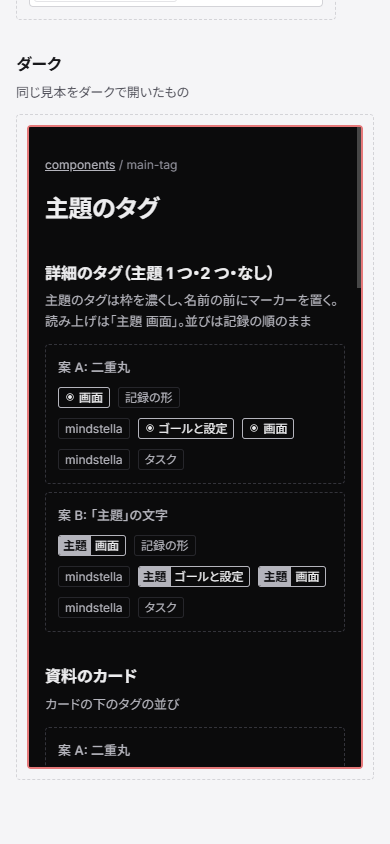
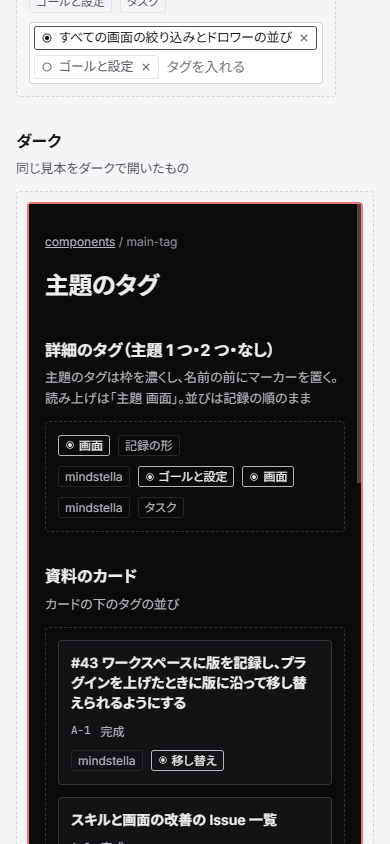
docs: 主題のマーカーの採用案を a-ring にし、主題のタグの部品のモックを案 A だけにする

diff --git a/dev/mock/components/main-tag/index.html b/dev/mock/components/main-tag/index.html
@@ -35,9 +35,6 @@
     /* タグを並べる見本（プレビューではタグの並びを置く先が持つ） */
     .tags { display: flex; flex-wrap: wrap; gap: 4px; }
     .card .tags { margin-top: 8px; }
-    /* 案ごとの見本の見出し */
-    .stage > h3 { margin: 0 0 8px; font-size: var(--fs-small); color: var(--text-2); font-weight: 500; }
-    .stage + .stage { margin-top: 8px; }
     /* 状態を見せるための見本のクラス（トグル） */
     .pe-chip-main.is-hover { background: var(--hover); color: var(--text); }
     .pe-chip-main.is-focus { outline: 2px solid var(--accent); outline-offset: -2px; }
@@ -63,27 +60,27 @@
     <section class="cat-sec">
       <h2>詳細のタグ（主題 1 つ・2 つ・なし）</h2>
       <p>主題のタグは枠を濃くし、名前の前にマーカーを置く。読み上げは「主題 画面」。並びは記録の順のまま</p>
-      <div class="stage" data-main-mark="a"><h3>案 A: 二重丸</h3><div class="row"><span class="tags"><span class="tag is-main" title="主題"><span class="tag-main"><svg class="icon" width="16" height="16" viewBox="0 0 24 24" aria-hidden="true"><circle cx="12" cy="12" r="8"/><circle cx="12" cy="12" r="3.5" fill="currentColor"/></svg><span class="tag-main-text">主題</span></span>画面</span><span class="tag">記録の形</span></span></div><div class="row" style="margin-top:8px"><span class="tags"><span class="tag">mindstella</span><span class="tag is-main" title="主題"><span class="tag-main"><svg class="icon" width="16" height="16" viewBox="0 0 24 24" aria-hidden="true"><circle cx="12" cy="12" r="8"/><circle cx="12" cy="12" r="3.5" fill="currentColor"/></svg><span class="tag-main-text">主題</span></span>ゴールと設定</span><span class="tag is-main" title="主題"><span class="tag-main"><svg class="icon" width="16" height="16" viewBox="0 0 24 24" aria-hidden="true"><circle cx="12" cy="12" r="8"/><circle cx="12" cy="12" r="3.5" fill="currentColor"/></svg><span class="tag-main-text">主題</span></span>画面</span></span></div><div class="row" style="margin-top:8px"><span class="tags"><span class="tag">mindstella</span><span class="tag">タスク</span></span></div></div><div class="stage" data-main-mark="b"><h3>案 B: 「主題」の文字</h3><div class="row"><span class="tags"><span class="tag is-main" title="主題"><span class="tag-main"><svg class="icon" width="16" height="16" viewBox="0 0 24 24" aria-hidden="true"><circle cx="12" cy="12" r="8"/><circle cx="12" cy="12" r="3.5" fill="currentColor"/></svg><span class="tag-main-text">主題</span></span>画面</span><span class="tag">記録の形</span></span></div><div class="row" style="margin-top:8px"><span class="tags"><span class="tag">mindstella</span><span class="tag is-main" title="主題"><span class="tag-main"><svg class="icon" width="16" height="16" viewBox="0 0 24 24" aria-hidden="true"><circle cx="12" cy="12" r="8"/><circle cx="12" cy="12" r="3.5" fill="currentColor"/></svg><span class="tag-main-text">主題</span></span>ゴールと設定</span><span class="tag is-main" title="主題"><span class="tag-main"><svg class="icon" width="16" height="16" viewBox="0 0 24 24" aria-hidden="true"><circle cx="12" cy="12" r="8"/><circle cx="12" cy="12" r="3.5" fill="currentColor"/></svg><span class="tag-main-text">主題</span></span>画面</span></span></div><div class="row" style="margin-top:8px"><span class="tags"><span class="tag">mindstella</span><span class="tag">タスク</span></span></div></div>
+      <div class="stage" data-main-mark="a"><div class="row"><span class="tags"><span class="tag is-main" title="主題"><span class="tag-main"><svg class="icon" width="16" height="16" viewBox="0 0 24 24" aria-hidden="true"><circle cx="12" cy="12" r="8"/><circle cx="12" cy="12" r="3.5" fill="currentColor"/></svg><span class="tag-main-text">主題</span></span>画面</span><span class="tag">記録の形</span></span></div><div class="row" style="margin-top:8px"><span class="tags"><span class="tag">mindstella</span><span class="tag is-main" title="主題"><span class="tag-main"><svg class="icon" width="16" height="16" viewBox="0 0 24 24" aria-hidden="true"><circle cx="12" cy="12" r="8"/><circle cx="12" cy="12" r="3.5" fill="currentColor"/></svg><span class="tag-main-text">主題</span></span>ゴールと設定</span><span class="tag is-main" title="主題"><span class="tag-main"><svg class="icon" width="16" height="16" viewBox="0 0 24 24" aria-hidden="true"><circle cx="12" cy="12" r="8"/><circle cx="12" cy="12" r="3.5" fill="currentColor"/></svg><span class="tag-main-text">主題</span></span>画面</span></span></div><div class="row" style="margin-top:8px"><span class="tags"><span class="tag">mindstella</span><span class="tag">タスク</span></span></div></div>
     </section>
     <section class="cat-sec">
       <h2>資料のカード</h2>
       <p>カードの下のタグの並び</p>
-      <div class="stage" data-main-mark="a"><h3>案 A: 二重丸</h3><div class="cards"><div class="card"><div class="c-ttl">#43 ワークスペースに版を記録し、プラグインを上げたときに版に沿って移し替えられるようにする</div><div class="c-meta"><span class="mono">A-1</span><span>完成</span></div><span class="tags"><span class="tag">mindstella</span><span class="tag is-main" title="主題"><span class="tag-main"><svg class="icon" width="16" height="16" viewBox="0 0 24 24" aria-hidden="true"><circle cx="12" cy="12" r="8"/><circle cx="12" cy="12" r="3.5" fill="currentColor"/></svg><span class="tag-main-text">主題</span></span>移し替え</span></span></div><div class="card"><div class="c-ttl">スキルと画面の改善の Issue 一覧</div><div class="c-meta"><span class="mono">A-2</span><span>完成</span></div><span class="tags"><span class="tag">mindstella</span><span class="tag is-main" title="主題"><span class="tag-main"><svg class="icon" width="16" height="16" viewBox="0 0 24 24" aria-hidden="true"><circle cx="12" cy="12" r="8"/><circle cx="12" cy="12" r="3.5" fill="currentColor"/></svg><span class="tag-main-text">主題</span></span>画面</span><span class="tag is-main" title="主題"><span class="tag-main"><svg class="icon" width="16" height="16" viewBox="0 0 24 24" aria-hidden="true"><circle cx="12" cy="12" r="8"/><circle cx="12" cy="12" r="3.5" fill="currentColor"/></svg><span class="tag-main-text">主題</span></span>記録の形</span><span class="tag">タスク</span></span></div></div></div><div class="stage" data-main-mark="b"><h3>案 B: 「主題」の文字</h3><div class="cards"><div class="card"><div class="c-ttl">#43 ワークスペースに版を記録し、プラグインを上げたときに版に沿って移し替えられるようにする</div><div class="c-meta"><span class="mono">A-1</span><span>完成</span></div><span class="tags"><span class="tag">mindstella</span><span class="tag is-main" title="主題"><span class="tag-main"><svg class="icon" width="16" height="16" viewBox="0 0 24 24" aria-hidden="true"><circle cx="12" cy="12" r="8"/><circle cx="12" cy="12" r="3.5" fill="currentColor"/></svg><span class="tag-main-text">主題</span></span>移し替え</span></span></div><div class="card"><div class="c-ttl">スキルと画面の改善の Issue 一覧</div><div class="c-meta"><span class="mono">A-2</span><span>完成</span></div><span class="tags"><span class="tag">mindstella</span><span class="tag is-main" title="主題"><span class="tag-main"><svg class="icon" width="16" height="16" viewBox="0 0 24 24" aria-hidden="true"><circle cx="12" cy="12" r="8"/><circle cx="12" cy="12" r="3.5" fill="currentColor"/></svg><span class="tag-main-text">主題</span></span>画面</span><span class="tag is-main" title="主題"><span class="tag-main"><svg class="icon" width="16" height="16" viewBox="0 0 24 24" aria-hidden="true"><circle cx="12" cy="12" r="8"/><circle cx="12" cy="12" r="3.5" fill="currentColor"/></svg><span class="tag-main-text">主題</span></span>記録の形</span><span class="tag">タスク</span></span></div></div></div>
+      <div class="stage" data-main-mark="a"><div class="cards"><div class="card"><div class="c-ttl">#43 ワークスペースに版を記録し、プラグインを上げたときに版に沿って移し替えられるようにする</div><div class="c-meta"><span class="mono">A-1</span><span>完成</span></div><span class="tags"><span class="tag">mindstella</span><span class="tag is-main" title="主題"><span class="tag-main"><svg class="icon" width="16" height="16" viewBox="0 0 24 24" aria-hidden="true"><circle cx="12" cy="12" r="8"/><circle cx="12" cy="12" r="3.5" fill="currentColor"/></svg><span class="tag-main-text">主題</span></span>移し替え</span></span></div><div class="card"><div class="c-ttl">スキルと画面の改善の Issue 一覧</div><div class="c-meta"><span class="mono">A-2</span><span>完成</span></div><span class="tags"><span class="tag">mindstella</span><span class="tag is-main" title="主題"><span class="tag-main"><svg class="icon" width="16" height="16" viewBox="0 0 24 24" aria-hidden="true"><circle cx="12" cy="12" r="8"/><circle cx="12" cy="12" r="3.5" fill="currentColor"/></svg><span class="tag-main-text">主題</span></span>画面</span><span class="tag is-main" title="主題"><span class="tag-main"><svg class="icon" width="16" height="16" viewBox="0 0 24 24" aria-hidden="true"><circle cx="12" cy="12" r="8"/><circle cx="12" cy="12" r="3.5" fill="currentColor"/></svg><span class="tag-main-text">主題</span></span>記録の形</span><span class="tag">タスク</span></span></div></div></div>
     </section>
     <section class="cat-sec">
       <h2>編集のタグの入力（主題でない・主題）</h2>
       <p>チップの左端のトグルで主題を付け外しする。トグルの名前は「{タグ} を主題」で、押した状態（aria-pressed）を読み上げる。主題は複数にできる</p>
-      <div class="stage" data-main-mark="a"><h3>案 A: 二重丸</h3><div class="pe-chips"><span class="tag pe-chip has-main is-main"><button class="pe-chip-main" type="button" aria-label="画面 を主題" aria-pressed="true" title="主題を外す"><svg class="icon" width="16" height="16" viewBox="0 0 24 24" aria-hidden="true"><circle cx="12" cy="12" r="8"/><circle cx="12" cy="12" r="3.5" fill="currentColor"/></svg><span class="tag-main-text">主題</span></button>画面<button class="pe-chip-x" type="button" aria-label="画面 を外す"><svg class="icon" width="16" height="16" viewBox="0 0 24 24" aria-hidden="true"><path d="M6 6l12 12M18 6 6 18"/></svg></button></span><span class="tag pe-chip has-main"><button class="pe-chip-main" type="button" aria-label="記録の形 を主題" aria-pressed="false" title="主題にする"><svg class="icon" width="16" height="16" viewBox="0 0 24 24" aria-hidden="true"><circle cx="12" cy="12" r="8"/></svg><span class="tag-main-text">主題</span></button>記録の形<button class="pe-chip-x" type="button" aria-label="記録の形 を外す"><svg class="icon" width="16" height="16" viewBox="0 0 24 24" aria-hidden="true"><path d="M6 6l12 12M18 6 6 18"/></svg></button></span><span class="tag pe-chip has-main"><button class="pe-chip-main" type="button" aria-label="通知 を主題" aria-pressed="false" title="主題にする"><svg class="icon" width="16" height="16" viewBox="0 0 24 24" aria-hidden="true"><circle cx="12" cy="12" r="8"/></svg><span class="tag-main-text">主題</span></button>通知<button class="pe-chip-x" type="button" aria-label="通知 を外す"><svg class="icon" width="16" height="16" viewBox="0 0 24 24" aria-hidden="true"><path d="M6 6l12 12M18 6 6 18"/></svg></button></span><input class="pe-chip-input" type="text" placeholder="タグを入れる" aria-label="タグを足す"></div></div><div class="stage" data-main-mark="b"><h3>案 B: 「主題」の文字</h3><div class="pe-chips"><span class="tag pe-chip has-main is-main"><button class="pe-chip-main" type="button" aria-label="画面 を主題" aria-pressed="true" title="主題を外す"><svg class="icon" width="16" height="16" viewBox="0 0 24 24" aria-hidden="true"><circle cx="12" cy="12" r="8"/><circle cx="12" cy="12" r="3.5" fill="currentColor"/></svg><span class="tag-main-text">主題</span></button>画面<button class="pe-chip-x" type="button" aria-label="画面 を外す"><svg class="icon" width="16" height="16" viewBox="0 0 24 24" aria-hidden="true"><path d="M6 6l12 12M18 6 6 18"/></svg></button></span><span class="tag pe-chip has-main"><button class="pe-chip-main" type="button" aria-label="記録の形 を主題" aria-pressed="false" title="主題にする"><svg class="icon" width="16" height="16" viewBox="0 0 24 24" aria-hidden="true"><circle cx="12" cy="12" r="8"/></svg><span class="tag-main-text">主題</span></button>記録の形<button class="pe-chip-x" type="button" aria-label="記録の形 を外す"><svg class="icon" width="16" height="16" viewBox="0 0 24 24" aria-hidden="true"><path d="M6 6l12 12M18 6 6 18"/></svg></button></span><span class="tag pe-chip has-main"><button class="pe-chip-main" type="button" aria-label="通知 を主題" aria-pressed="false" title="主題にする"><svg class="icon" width="16" height="16" viewBox="0 0 24 24" aria-hidden="true"><circle cx="12" cy="12" r="8"/></svg><span class="tag-main-text">主題</span></button>通知<button class="pe-chip-x" type="button" aria-label="通知 を外す"><svg class="icon" width="16" height="16" viewBox="0 0 24 24" aria-hidden="true"><path d="M6 6l12 12M18 6 6 18"/></svg></button></span><input class="pe-chip-input" type="text" placeholder="タグを入れる" aria-label="タグを足す"></div></div>
+      <div class="stage" data-main-mark="a"><div class="pe-chips"><span class="tag pe-chip has-main is-main"><button class="pe-chip-main" type="button" aria-label="画面 を主題" aria-pressed="true" title="主題を外す"><svg class="icon" width="16" height="16" viewBox="0 0 24 24" aria-hidden="true"><circle cx="12" cy="12" r="8"/><circle cx="12" cy="12" r="3.5" fill="currentColor"/></svg><span class="tag-main-text">主題</span></button>画面<button class="pe-chip-x" type="button" aria-label="画面 を外す"><svg class="icon" width="16" height="16" viewBox="0 0 24 24" aria-hidden="true"><path d="M6 6l12 12M18 6 6 18"/></svg></button></span><span class="tag pe-chip has-main"><button class="pe-chip-main" type="button" aria-label="記録の形 を主題" aria-pressed="false" title="主題にする"><svg class="icon" width="16" height="16" viewBox="0 0 24 24" aria-hidden="true"><circle cx="12" cy="12" r="8"/></svg><span class="tag-main-text">主題</span></button>記録の形<button class="pe-chip-x" type="button" aria-label="記録の形 を外す"><svg class="icon" width="16" height="16" viewBox="0 0 24 24" aria-hidden="true"><path d="M6 6l12 12M18 6 6 18"/></svg></button></span><span class="tag pe-chip has-main"><button class="pe-chip-main" type="button" aria-label="通知 を主題" aria-pressed="false" title="主題にする"><svg class="icon" width="16" height="16" viewBox="0 0 24 24" aria-hidden="true"><circle cx="12" cy="12" r="8"/></svg><span class="tag-main-text">主題</span></button>通知<button class="pe-chip-x" type="button" aria-label="通知 を外す"><svg class="icon" width="16" height="16" viewBox="0 0 24 24" aria-hidden="true"><path d="M6 6l12 12M18 6 6 18"/></svg></button></span><input class="pe-chip-input" type="text" placeholder="タグを入れる" aria-label="タグを足す"></div></div>
     </section>
     <section class="cat-sec">
       <h2>トグルのホバー・キーボードのフォーカス</h2>
       <p>押せる的は縦横 24px</p>
-      <div class="stage" data-main-mark="a"><h3>案 A: 二重丸</h3><div class="row"><div class="pe-chips"><span class="tag pe-chip has-main"><button class="pe-chip-mainis-hover" type="button" aria-label="記録の形 を主題" aria-pressed="false" title="主題にする"><svg class="icon" width="16" height="16" viewBox="0 0 24 24" aria-hidden="true"><circle cx="12" cy="12" r="8"/></svg><span class="tag-main-text">主題</span></button>記録の形<button class="pe-chip-x" type="button" aria-label="記録の形 を外す"><svg class="icon" width="16" height="16" viewBox="0 0 24 24" aria-hidden="true"><path d="M6 6l12 12M18 6 6 18"/></svg></button></span><span class="tag pe-chip has-main is-main"><button class="pe-chip-mainis-focus" type="button" aria-label="画面 を主題" aria-pressed="true" title="主題を外す"><svg class="icon" width="16" height="16" viewBox="0 0 24 24" aria-hidden="true"><circle cx="12" cy="12" r="8"/><circle cx="12" cy="12" r="3.5" fill="currentColor"/></svg><span class="tag-main-text">主題</span></button>画面<button class="pe-chip-x" type="button" aria-label="画面 を外す"><svg class="icon" width="16" height="16" viewBox="0 0 24 24" aria-hidden="true"><path d="M6 6l12 12M18 6 6 18"/></svg></button></span><input class="pe-chip-input" type="text" placeholder="タグを入れる" aria-label="タグを足す"></div></div></div><div class="stage" data-main-mark="b"><h3>案 B: 「主題」の文字</h3><div class="row"><div class="pe-chips"><span class="tag pe-chip has-main"><button class="pe-chip-mainis-hover" type="button" aria-label="記録の形 を主題" aria-pressed="false" title="主題にする"><svg class="icon" width="16" height="16" viewBox="0 0 24 24" aria-hidden="true"><circle cx="12" cy="12" r="8"/></svg><span class="tag-main-text">主題</span></button>記録の形<button class="pe-chip-x" type="button" aria-label="記録の形 を外す"><svg class="icon" width="16" height="16" viewBox="0 0 24 24" aria-hidden="true"><path d="M6 6l12 12M18 6 6 18"/></svg></button></span><span class="tag pe-chip has-main is-main"><button class="pe-chip-mainis-focus" type="button" aria-label="画面 を主題" aria-pressed="true" title="主題を外す"><svg class="icon" width="16" height="16" viewBox="0 0 24 24" aria-hidden="true"><circle cx="12" cy="12" r="8"/><circle cx="12" cy="12" r="3.5" fill="currentColor"/></svg><span class="tag-main-text">主題</span></button>画面<button class="pe-chip-x" type="button" aria-label="画面 を外す"><svg class="icon" width="16" height="16" viewBox="0 0 24 24" aria-hidden="true"><path d="M6 6l12 12M18 6 6 18"/></svg></button></span><input class="pe-chip-input" type="text" placeholder="タグを入れる" aria-label="タグを足す"></div></div></div>
+      <div class="stage" data-main-mark="a"><div class="row"><div class="pe-chips"><span class="tag pe-chip has-main"><button class="pe-chip-main is-hover" type="button" aria-label="記録の形 を主題" aria-pressed="false" title="主題にする"><svg class="icon" width="16" height="16" viewBox="0 0 24 24" aria-hidden="true"><circle cx="12" cy="12" r="8"/></svg><span class="tag-main-text">主題</span></button>記録の形<button class="pe-chip-x" type="button" aria-label="記録の形 を外す"><svg class="icon" width="16" height="16" viewBox="0 0 24 24" aria-hidden="true"><path d="M6 6l12 12M18 6 6 18"/></svg></button></span><span class="tag pe-chip has-main is-main"><button class="pe-chip-main is-focus" type="button" aria-label="画面 を主題" aria-pressed="true" title="主題を外す"><svg class="icon" width="16" height="16" viewBox="0 0 24 24" aria-hidden="true"><circle cx="12" cy="12" r="8"/><circle cx="12" cy="12" r="3.5" fill="currentColor"/></svg><span class="tag-main-text">主題</span></button>画面<button class="pe-chip-x" type="button" aria-label="画面 を外す"><svg class="icon" width="16" height="16" viewBox="0 0 24 24" aria-hidden="true"><path d="M6 6l12 12M18 6 6 18"/></svg></button></span><input class="pe-chip-input" type="text" placeholder="タグを入れる" aria-label="タグを足す"></div></div></div>
     </section>
     <section class="cat-sec">
       <h2>長いタグ・狭い幅（320px）</h2>
       <p>収まらないタグは次の行へ回し、マーカーは名前と同じ行に残す</p>
-      <div class="stage narrow" data-main-mark="a"><h3>案 A: 二重丸</h3><span class="tags"><span class="tag is-main" title="主題"><span class="tag-main"><svg class="icon" width="16" height="16" viewBox="0 0 24 24" aria-hidden="true"><circle cx="12" cy="12" r="8"/><circle cx="12" cy="12" r="3.5" fill="currentColor"/></svg><span class="tag-main-text">主題</span></span>すべての画面の絞り込みとドロワーの並び</span><span class="tag">ゴールと設定</span><span class="tag">タスク</span></span><div style="margin-top:8px"><div class="pe-chips"><span class="tag pe-chip has-main is-main"><button class="pe-chip-main" type="button" aria-label="すべての画面の絞り込みとドロワーの並び を主題" aria-pressed="true" title="主題を外す"><svg class="icon" width="16" height="16" viewBox="0 0 24 24" aria-hidden="true"><circle cx="12" cy="12" r="8"/><circle cx="12" cy="12" r="3.5" fill="currentColor"/></svg><span class="tag-main-text">主題</span></button>すべての画面の絞り込みとドロワーの並び<button class="pe-chip-x" type="button" aria-label="すべての画面の絞り込みとドロワーの並び を外す"><svg class="icon" width="16" height="16" viewBox="0 0 24 24" aria-hidden="true"><path d="M6 6l12 12M18 6 6 18"/></svg></button></span><span class="tag pe-chip has-main"><button class="pe-chip-main" type="button" aria-label="ゴールと設定 を主題" aria-pressed="false" title="主題にする"><svg class="icon" width="16" height="16" viewBox="0 0 24 24" aria-hidden="true"><circle cx="12" cy="12" r="8"/></svg><span class="tag-main-text">主題</span></button>ゴールと設定<button class="pe-chip-x" type="button" aria-label="ゴールと設定 を外す"><svg class="icon" width="16" height="16" viewBox="0 0 24 24" aria-hidden="true"><path d="M6 6l12 12M18 6 6 18"/></svg></button></span><input class="pe-chip-input" type="text" placeholder="タグを入れる" aria-label="タグを足す"></div></div></div><div class="stage narrow" data-main-mark="b"><h3>案 B: 「主題」の文字</h3><span class="tags"><span class="tag is-main" title="主題"><span class="tag-main"><svg class="icon" width="16" height="16" viewBox="0 0 24 24" aria-hidden="true"><circle cx="12" cy="12" r="8"/><circle cx="12" cy="12" r="3.5" fill="currentColor"/></svg><span class="tag-main-text">主題</span></span>すべての画面の絞り込みとドロワーの並び</span><span class="tag">ゴールと設定</span><span class="tag">タスク</span></span><div style="margin-top:8px"><div class="pe-chips"><span class="tag pe-chip has-main is-main"><button class="pe-chip-main" type="button" aria-label="すべての画面の絞り込みとドロワーの並び を主題" aria-pressed="true" title="主題を外す"><svg class="icon" width="16" height="16" viewBox="0 0 24 24" aria-hidden="true"><circle cx="12" cy="12" r="8"/><circle cx="12" cy="12" r="3.5" fill="currentColor"/></svg><span class="tag-main-text">主題</span></button>すべての画面の絞り込みとドロワーの並び<button class="pe-chip-x" type="button" aria-label="すべての画面の絞り込みとドロワーの並び を外す"><svg class="icon" width="16" height="16" viewBox="0 0 24 24" aria-hidden="true"><path d="M6 6l12 12M18 6 6 18"/></svg></button></span><span class="tag pe-chip has-main"><button class="pe-chip-main" type="button" aria-label="ゴールと設定 を主題" aria-pressed="false" title="主題にする"><svg class="icon" width="16" height="16" viewBox="0 0 24 24" aria-hidden="true"><circle cx="12" cy="12" r="8"/></svg><span class="tag-main-text">主題</span></button>ゴールと設定<button class="pe-chip-x" type="button" aria-label="ゴールと設定 を外す"><svg class="icon" width="16" height="16" viewBox="0 0 24 24" aria-hidden="true"><path d="M6 6l12 12M18 6 6 18"/></svg></button></span><input class="pe-chip-input" type="text" placeholder="タグを入れる" aria-label="タグを足す"></div></div></div>
+      <div class="stage narrow" data-main-mark="a"><span class="tags"><span class="tag is-main" title="主題"><span class="tag-main"><svg class="icon" width="16" height="16" viewBox="0 0 24 24" aria-hidden="true"><circle cx="12" cy="12" r="8"/><circle cx="12" cy="12" r="3.5" fill="currentColor"/></svg><span class="tag-main-text">主題</span></span>すべての画面の絞り込みとドロワーの並び</span><span class="tag">ゴールと設定</span><span class="tag">タスク</span></span><div style="margin-top:8px"><div class="pe-chips"><span class="tag pe-chip has-main is-main"><button class="pe-chip-main" type="button" aria-label="すべての画面の絞り込みとドロワーの並び を主題" aria-pressed="true" title="主題を外す"><svg class="icon" width="16" height="16" viewBox="0 0 24 24" aria-hidden="true"><circle cx="12" cy="12" r="8"/><circle cx="12" cy="12" r="3.5" fill="currentColor"/></svg><span class="tag-main-text">主題</span></button>すべての画面の絞り込みとドロワーの並び<button class="pe-chip-x" type="button" aria-label="すべての画面の絞り込みとドロワーの並び を外す"><svg class="icon" width="16" height="16" viewBox="0 0 24 24" aria-hidden="true"><path d="M6 6l12 12M18 6 6 18"/></svg></button></span><span class="tag pe-chip has-main"><button class="pe-chip-main" type="button" aria-label="ゴールと設定 を主題" aria-pressed="false" title="主題にする"><svg class="icon" width="16" height="16" viewBox="0 0 24 24" aria-hidden="true"><circle cx="12" cy="12" r="8"/></svg><span class="tag-main-text">主題</span></button>ゴールと設定<button class="pe-chip-x" type="button" aria-label="ゴールと設定 を外す"><svg class="icon" width="16" height="16" viewBox="0 0 24 24" aria-hidden="true"><path d="M6 6l12 12M18 6 6 18"/></svg></button></span><input class="pe-chip-input" type="text" placeholder="タグを入れる" aria-label="タグを足す"></div></div></div>
     </section>
     <section class="cat-sec">
       <h2>ダーク</h2>

diff --git a/dev/mock/components/index.md b/dev/mock/components/index.md
@@ -17,7 +17,7 @@
 | [filter-drawer](./filter-drawer/index.html) | 絞り込みのボタンとドロワー（絞っていない・絞り込み中・開いている・ホバー・フォーカス・バッジの数の案・何も選んでいない・値を選んでいる・0 件の値・長いタグ・キーワードに一致した件数・該当なし・狭い幅・列の見出し・列の文字の条件（B 案）・文字の条件のチップ） |
 | [fullscreen-button](./fullscreen-button/index.html) | 全画面表示のボタン（全画面でない・全画面の間の縮小のアイコン・ホバー・フォーカス・狭い幅） |
 | [html-body-frame](./html-body-frame/index.html) | HTML の本文の枠（描いた本文・本文の <style> が外へ漏れない・描く前・スクリプトを含む本文・Markdown の中の html のコードブロック・差分の描いた結果の印と原文の差分への切り替え・差分を出せない・狭い幅） |
-| [main-tag](./main-tag/index.html) | 主題のタグ（詳細のタグの主題 1 つ・2 つ・なし・資料のカード・編集のタグの入力の主題のトグル・ホバーとフォーカス・長いタグ・狭い幅・二重丸の案 A・「主題」の文字の案 B） |
+| [main-tag](./main-tag/index.html) | 主題のタグ（詳細のタグの主題 1 つ・2 つ・なし・資料のカード・編集のタグの入力の主題のトグル・ホバーとフォーカス・長いタグ・狭い幅・名前の前の二重丸のマーカー） |
 | [look-pick](./look-pick/index.html) | ネットワークの見た目の選び（深宇宙のダーク・ライト・グロウ・星屑・ホバー・フォーカス・開いている・既定が別の見た目・狭い幅） |
 | [map-lock](./map-lock/index.html) | 検討事項のマップの節の鍵（ロックしていない・開いた鍵・閉じた鍵・ロック中にほかの節を開いた・鍵の震え・長い題・コメントの印と鍵） |
 | [markdown-body](./markdown-body/index.html) | 本文の Markdown（列の文字数で決める列の幅と折り返し・境目の別案・今の表示との比べ・列の少ない表・右端のフェード・列の固定のホバーとフォーカスと固定して送った状態・見出しの固定と列の固定との重なり・しま模様と差分の行・セクションの折りたたみの案 A と案 B・コードブロックの言語の札とコピー・コールアウト・表示の設定でオフ・ダーク） |

diff --git a/dev/mock/pages/detail-full/index.md b/dev/mock/pages/detail-full/index.md
@@ -4,7 +4,7 @@
 
 | Issue / PR | タイトル | 採用案 |
 | --- | --- | --- |
-| [385](./385/index.md) | find の返す量を view・include・count_only・format にして文字数を返し、項目のタグに主題のマーカーを持たせる | - |
+| [385](./385/index.md) | find の返す量を view・include・count_only・format にして文字数を返し、項目のタグに主題のマーカーを持たせる | [a-ring](./385/a-ring/index.html) |
 | [348](./348/index.md) | mdmark の上で、資料に HTML と操作できる部品を埋め込み、資料を書き出せるようにする | - |
 | [332](./332/index.md) | 本文を選択したときのコメントの入口を、選んだ箇所の邪魔にならない位置と見た目にする | - |
 | [327](./327/index.md) | Markdown の本文に共通のスタイルを持たせ、表の列の固定・見出しの固定・しま模様・セクションの折りたたみを表示の設定で切り替えられるようにする | - |

diff --git a/dev/mock/pages/detail-panel/index.md b/dev/mock/pages/detail-panel/index.md
@@ -4,7 +4,7 @@
 
 | Issue / PR | タイトル | 採用案 |
 | --- | --- | --- |
-| [385](./385/index.md) | find の返す量を view・include・count_only・format にして文字数を返し、項目のタグに主題のマーカーを持たせる | - |
+| [385](./385/index.md) | find の返す量を view・include・count_only・format にして文字数を返し、項目のタグに主題のマーカーを持たせる | [a-ring](./385/a-ring/index.html) |
 | [348](./348/index.md) | mdmark の上で、資料に HTML と操作できる部品を埋め込み、資料を書き出せるようにする | - |
 | [340](./340/index.md) | 詳細のサイドバーを既定の幅で開き、ドラッグで幅を変えられるようにする | - |
 | [332](./332/index.md) | 本文を選択したときのコメントの入口を、選んだ箇所の邪魔にならない位置と見た目にする | - |

diff --git a/dev/mock/pages/detail-full/385/index.md b/dev/mock/pages/detail-full/385/index.md
@@ -2,5 +2,5 @@
 
 | 案 | 説明 |
 | --- | --- |
-| [a-ring](./a-ring/index.html) | 主題のタグの名前の前に二重丸を置き、「主題」は読み上げと title だけで伝える。編集のタグの入力では、チップの左端の二重丸のトグルで主題を付け外しする |
+| [a-ring](./a-ring/index.html) <span class="badge ok">採用</span> | 主題のタグの名前の前に二重丸を置き、「主題」は読み上げと title だけで伝える。編集のタグの入力では、チップの左端の二重丸のトグルで主題を付け外しする |
 | [b-label](./b-label/index.html) | 主題のタグの左端に「主題」の文字を塗りで置く。編集のタグの入力では、チップの左端の「主題」のトグル（主題でないときは破線の枠）で主題を付け外しする |

diff --git a/dev/mock/pages/detail-panel/385/index.md b/dev/mock/pages/detail-panel/385/index.md
@@ -2,5 +2,5 @@
 
 | 案 | 説明 |
 | --- | --- |
-| [a-ring](./a-ring/index.html) | 主題のタグの名前の前に二重丸を置き、「主題」は読み上げと title だけで伝える。編集のタグの入力では、チップの左端の二重丸のトグルで主題を付け外しする |
+| [a-ring](./a-ring/index.html) <span class="badge ok">採用</span> | 主題のタグの名前の前に二重丸を置き、「主題」は読み上げと title だけで伝える。編集のタグの入力では、チップの左端の二重丸のトグルで主題を付け外しする |
 | [b-label](./b-label/index.html) | 主題のタグの左端に「主題」の文字を塗りで置く。編集のタグの入力では、チップの左端の「主題」のトグル（主題でないときは破線の枠）で主題を付け外しする |

diff --git a/dev/mock/pages/docs/385/index.md b/dev/mock/pages/docs/385/index.md
@@ -2,5 +2,5 @@
 
 | 案 | 説明 |
 | --- | --- |
-| [a-ring](./a-ring/index.html) | 主題のタグの名前の前に二重丸を置き、「主題」は読み上げと title だけで伝える。編集のタグの入力では、チップの左端の二重丸のトグルで主題を付け外しする |
+| [a-ring](./a-ring/index.html) <span class="badge ok">採用</span> | 主題のタグの名前の前に二重丸を置き、「主題」は読み上げと title だけで伝える。編集のタグの入力では、チップの左端の二重丸のトグルで主題を付け外しする |
 | [b-label](./b-label/index.html) | 主題のタグの左端に「主題」の文字を塗りで置く。編集のタグの入力では、チップの左端の「主題」のトグル（主題でないときは破線の枠）で主題を付け外しする |

diff --git a/dev/mock/pages/docs/index.md b/dev/mock/pages/docs/index.md
@@ -4,7 +4,7 @@
 
 | Issue / PR | タイトル | 採用案 |
 | --- | --- | --- |
-| [385](./385/index.md) | find の返す量を view・include・count_only・format にして文字数を返し、項目のタグに主題のマーカーを持たせる | - |
+| [385](./385/index.md) | find の返す量を view・include・count_only・format にして文字数を返し、項目のタグに主題のマーカーを持たせる | [a-ring](./385/a-ring/index.html) |
 | [325](./325/index.md) | 利用者が画面から項目を編集・追加・削除し、まとめて保存できるようにする | - |
 | [214](./214/index.md) | 資料の本文を HTML でも書けるようにする | a-kind |
 | [179](./179/index.md) | プレビューの変更履歴・差分の表示に、消した項目と取り下げの印を出す | - |
